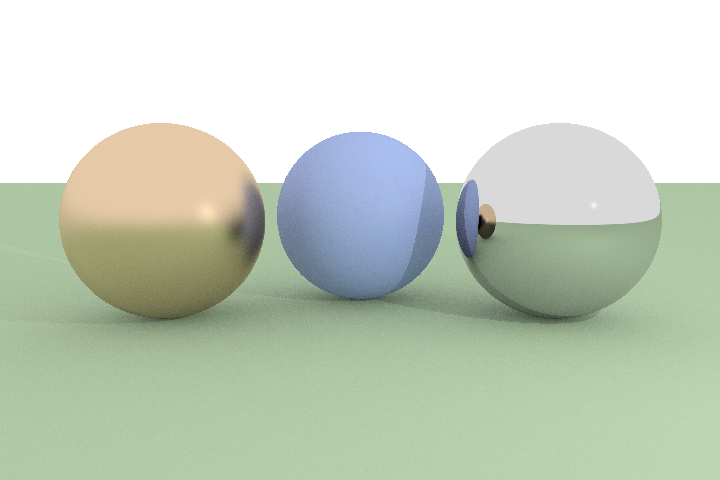
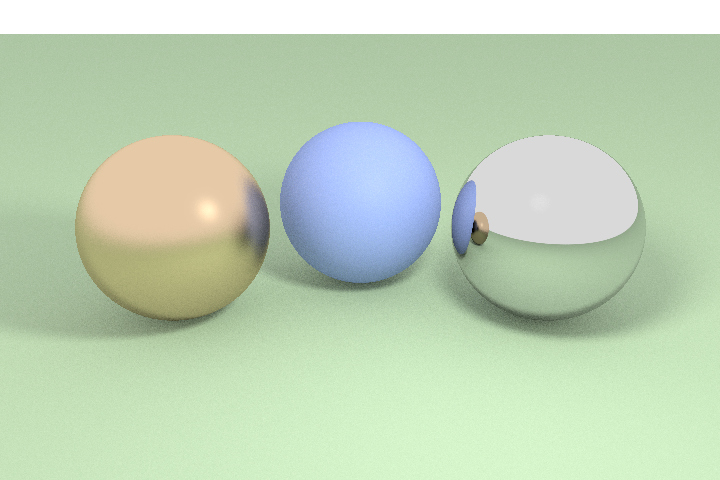
add multithreading with OpenMP : ~3 times faster on small scene

diff --git a/src/trace.cpp b/src/trace.cpp
@@ -5,19 +5,22 @@
 #include "utils.hpp"
 #include <chrono>
 #include <cmath>
+#include <omp.h>
+#include <sstream>
+#include <string>
 
-void displayProgress(float progressRatio) {
+std::string progressBar(float progressRatio) {
     constexpr int nChars = 50;
     const int nSquares = static_cast<int>(std::round(progressRatio * nChars));
-    std::string progressBar;
+    std::ostringstream progressBar;
     for (int i = 0; i < nSquares; ++i) {
-        progressBar.append("■");
+        progressBar << "■";
     }
     for (int i = nSquares; i < nChars; ++i) {
-        progressBar.append("-");
+        progressBar << "-";
     }
-    std::cout << '\r' << progressBar << ' ' << static_cast<int>(std::round(100 * progressRatio))
-              << '%' << std::flush;
+    progressBar << ' ' << static_cast<int>(std::round(100 * progressRatio)) << '%';
+    return progressBar.str();
 }
 
 Color gammaCorrect(const Color& color, float gamma) {
@@ -28,14 +31,23 @@ Color gammaCorrect(const Color& color, float gamma) {
 
 std::vector<std::vector<Color>> rayTrace(const PerspectiveCamera& camera, const Scene& scene,
                                          const RenderParams& params) {
-    std::vector<std::vector<Color>> render;
+    std::vector<std::vector<Color>> render(params.height);
 
-    std::cout << "Starting render...\n";
+    // This may need tweaking for optimal performance depending on your machine :
+    // I noticed that using hyperthreading (all 8 logical cores) resulted in 10-15%
+    // worse performance on my machine than just using the 4 physical cores.
+    const int num_threads = omp_get_max_threads() / 2;
+    omp_set_num_threads(num_threads);
+
+    std::cout << "Starting render on " << num_threads << " threads..." << std::endl;
     const auto start = std::chrono::steady_clock::now();
 
     for (int y = 0; y < params.height; ++y) {
-        std::vector<Color> line;
-        displayProgress(static_cast<float>(y) / static_cast<float>(params.height));
+        std::vector<Color> line(params.width);
+        std::string bar = progressBar(static_cast<float>(y) / static_cast<float>(params.height));
+        std::cout << '\r' << bar << std::flush;
+
+#pragma omp parallel for schedule(guided)
         for (int x = 0; x < params.width; ++x) {
             Color pixelColor{0.0f};
             for (int i = 0; i < params.nSamples; ++i) {
@@ -43,9 +55,9 @@ std::vector<std::vector<Color>> rayTrace(const PerspectiveCamera& camera, const 
                                                 params.width, params.height);
                 pixelColor += scene.shootRay(initialRay, params.maxBounces);
             }
-            line.push_back(gammaCorrect(pixelColor / params.nSamples, params.gamma));
+            line[x] = gammaCorrect(pixelColor / params.nSamples, params.gamma);
         }
-        render.push_back(line);
+        render[y] = line;
     }
 
     const auto duration = std::chrono::duration_cast<std::chrono::milliseconds>(

diff --git a/src/main.cpp b/src/main.cpp
@@ -14,7 +14,7 @@
 #include "vector3.hpp"
 
 int main() {
-    Material wallMat{Color(0.9f, 0.85f, 0.75f)};
+    Material wallMat{Color(0.4f, 0.55f, 0.35f)};
     std::vector<std::shared_ptr<Shape>> shapes{{
         std::make_shared<Plane>(Point3(0.0f, 0.0f, -10.0f), Vector3(0.0f, 1.0f, 0.0f), // floor
                                 wallMat),
@@ -33,21 +33,21 @@ int main() {
         // wall
         //                         Material(Color(0.3f, 0.9f, 0.3f))),
         std::make_shared<Sphere>(Point3(-2.0f, 1.0f, -6.0f), 1.0f, // glossy sphere
-                                 Material(Color(0.8f, 0.6f, 0.4f), 100.0f, true)),
+                                 Material(Color(0.8f, 0.6f, 0.4f), 50.0f, true)),
         std::make_shared<Sphere>(Point3(0.0f, 1.0f, -7.0f), 1.0f, // diffuse sphere
-                                 Material(Color(0.35f, 0.45f, 0.8f), 1000.0f)),
+                                 Material(Color(0.3, 0.4f, 0.8f), 10.0f)),
         std::make_shared<Sphere>(Point3(2.0f, 1.0f, -6.0f), 1.0f, // mirror sphere
-                                 Material(Color(0.5f), 100000.0f, true)),
+                                 Material(Color(0.7f), 100000.0f, true)),
     }};
     std::vector<std::shared_ptr<Light>> lights{
-        std::make_shared<PointLight>(Point3(3.0f, 2.0f, -3.0f), Color(0.3f)),
+        std::make_shared<SphereLight>(Point3(1.0f, 3.0f, -4.0f), Color(0.7f), 0.5f),
     };
 
-    Scene scene{shapes, lights};
+    Scene scene{shapes, lights, Color::WHITE};
 
-    RenderParams params{720, 480, 2, 20};
+    RenderParams params{720, 480, 2, 100};
 
-    PerspectiveCamera camera{Point3(0.0f, 2.0f, 0.0f), Point3(0.0f, 0.0f, -9.0f), Utils::PI / 4};
+    PerspectiveCamera camera{Point3(0.0f, 3.0f, 0.0f), Point3(0.0f, 0.5f, -7.0f), Utils::PI / 4};
 
     auto render = rayTrace(camera, scene, params);
     saveRenderToPPM(render, "scene.ppm");

diff --git a/src/utils.hpp b/src/utils.hpp
@@ -13,9 +13,23 @@ constexpr float PI{3.141592f};
 
 /* Returns a random float uniformly between 0.0f and 1.0f. */
 inline float random() {
-    static std::uniform_real_distribution<float> distribution(0.0f, 1.0f);
-    static std::mt19937 generator;
+    /* Interesting discoveries here : while far from a perfect PRNG, the C-style
+    rand() function yielded very significant performance improvements over the C++
+    std::mt19937 implementation (15-20% on final render time). However, when
+    implementing multithreading using OpenMP, rand() hurts catastrophically the
+    performance, resulting in close to no improvement over the monothreaded version.
+    Explanation for the slowness of rand() in multithreaded context :
+    https://stackoverflow.com/questions/10624755/openmp-program-is-slower-than-sequential-one */
+
+    // Modern C++ version :
+    thread_local std::mt19937 generator{std::random_device{}()};
+    thread_local std::uniform_real_distribution<float> distribution(0.0f, 1.0f);
     return distribution(generator);
+    // This may be slightly faster
+    // return static_cast<float>generator() / generator.max();
+
+    // Old C-style version (fast when monothreaded, but synchronization issues with OpenMP) :
+    // return static_cast<float>(rand()) / RAND_MAX;
 }
 
 inline float signBitToNumber(bool signBit) { return signBit ? 1.0f : -1.0f; }

diff --git a/src/color.hpp b/src/color.hpp
@@ -11,6 +11,7 @@ struct Color {
     static Color WHITE;
     static Color BLACK;
 
+    Color() : r(0.0f), g(0.0f), b(0.0f) {}
     Color(float f) : r(f), g(f), b(f) {}
     Color(float red, float green, float blue) : r(red), g(green), b(blue) {}
 

diff --git a/README.md b/README.md
@@ -1,15 +1,12 @@
 # Raytracing in C++
 
-This is a personal project in which I build a raytracer with incremental features, that I started to learn modern C++ and computer graphics !
+This is a personal project in which I incrementally build a raytracer, that I started to learn modern C++ and computer graphics. Going back at it from time to time !
 
 ![Example image](./scene.png)
 
 ## Running the project
 
--   You need to have CMake and Make installed, as well as a C++ compiler (I mainly use Clang to develop this project, I cannot assert that it works flawlessly with GCC/MSVC).
-
--   To run the tests, you need to have the [Catch2](https://github.com/catchorg/Catch2) header-only library in your compiler's include path.
-
+-   Requirements : CMake, Make, a modern C++ compiler (tested with G++ >= 9), OpenMP library (for multithreading).
 -   Generate the Makefile by doing :
     ```bash
     $ mkdir build
@@ -21,30 +18,12 @@ This is a personal project in which I build a raytracer with incremental feature
     $ make raytracer
     $ ./raytracer
     ```
-    or run the tests with :
-    ```bash
-    $ make runtests
-    $ ./runtests
-    ```
 
 If you want to change the rendered scene, you can do so in `src/main.cpp`.
 
-## Features developed
+## Features supported
 
--   [x] Ambient lighting
--   [x] Point Lights
--   [x] Basic diffuse shading
--   [x] Cast shadows
--   [x] Specular highlights (Phong illumination model)
--   [x] Perfect reflections
--   [x] Progress bar
--   [x] Glossy reflections
--   [ ] Texture mapping
--   [ ] Normal mapping
--   [ ] Area lights
--   [ ] Ambient occlusion
--   [ ] Adaptive supersampling
--   [ ] Glass material
--   [ ] Bloom
--   [ ] Multi-threaded implementation
--   [ ] Environment mapping
+-   [x] Global illumination (path tracing, but also using direct light sampling)
+-   [x] Soft shadows (non-ponctual lights)
+-   [x] Single PBR Material (inspired by Disney's & Blender's Principled BSDF although much less complete)
+-   [x] Multithreading (using OpenMP)
